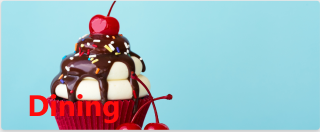
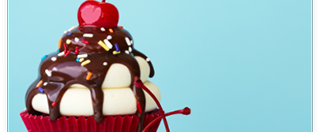
promotion

diff --git a/index.html b/index.html
@@ -212,14 +212,32 @@
                     	<div class="promotions-info">
 							<h2 class="red-text">Promotions</h2>
 							<div class="row promotions-row">
-								<div class="col-md-4"><img src="images/promotion1.png" alt=""></div>
-								<div class="col-md-4"><img src="images/promotion2.png" alt=""></div>
-								<div class="col-md-4"><img src="images/promotion3.png" alt=""></div>
+								<div class="col-md-4">
+                                             <img src="images/promotion1.png" alt="">
+                                             <div class="caption"><h2 class="red-text">Dining</h2></div>
+                                        </div>
+								<div class="col-md-4">
+                                             <img src="images/promotion2.png" alt="">
+                                             <div class="caption"><h2 class="white-text">Entertainment</h2></div>
+                                        </div>
+								<div class="col-md-4">
+                                             <img src="images/promotion3.png" alt="">
+                                             <div class="caption"><h2 class="white-text">Shopping</h2></div>
+                                        </div>
 							</div>
 							<div class="row promotions-row">
-								<div class="col-md-4"><img src="images/promotion1.png" alt=""></div>
-								<div class="col-md-4"><img src="images/promotion2.png" alt=""></div>
-								<div class="col-md-4"><img src="images/promotion3.png" alt=""></div>
+								<div class="col-md-4">
+                                             <img src="images/promotion4.png" alt="">
+                                             <div class="caption"><h2 class="red-text">Health</h2></div>
+                                        </div>
+								<div class="col-md-4">
+                                             <img src="images/promotion5.png" alt="">
+                                             <div class="caption"><h2 class="red-text">Beauty</h2></div>
+                                        </div>
+								<div class="col-md-4">
+                                             <img src="images/promotion6.png" alt="">
+                                             <div class="caption"><h2 class="white-text">Other</h2></div>
+                                        </div>
 							</div>
                     	</div>
                     </div>

diff --git a/css/promotions.css b/css/promotions.css
@@ -1,20 +1,47 @@
 #promotions {
 	background: #ededed;
+	padding-bottom: 100px;
 }
 
- #promotions .promotions-info {
+#promotions .promotions-info {
 	padding: 20px 10px;
 } 
 
-#promotions .promotions-img {
-	padding: 25px 0 25px;
-}
+#promotions .promotions-info .promotions-row {
+	padding: 20px 0;
+} 
+
+#promotions .promotions-info .promotions-row .caption {
+	position: absolute;
+    top: 45%;
+	left: 12%;
+} 
 
 /* @media only screen  and (min-width : 1224px) {
 } */
 @media only screen and (min-device-width : 990px) and (max-device-width : 1224px) {
 }
 @media only screen and (min-device-width: 320px) and (max-device-width: 990px) {
+	#promotions {
+		padding-bottom: 50px;
+	}
+
+	#promotions .promotions-info .promotions-row {
+		padding: 0;
+	} 
+
+	#promotions .promotions-info .promotions-row .col-md-4 {
+		padding: 15px 0;
+	} 
+
+	#promotions .promotions-info .promotions-row .caption {
+	    top: 35%;
+		left: 8%;
+	} 
 }
 @media only screen and (min-device-width : 445px) and (max-device-width : 990px) {
+	#promotions .promotions-info .promotions-row .caption {
+	    top: 55%;
+		left: 8%;
+	} 
 }

diff --git a/css/style.css b/css/style.css
@@ -10,6 +10,9 @@ body {
 .red-text {
 	color: #ff0c0c;
 }
+.white-text {
+	color: #ffffff;
+}
 
 img {
 	width: 100%;
